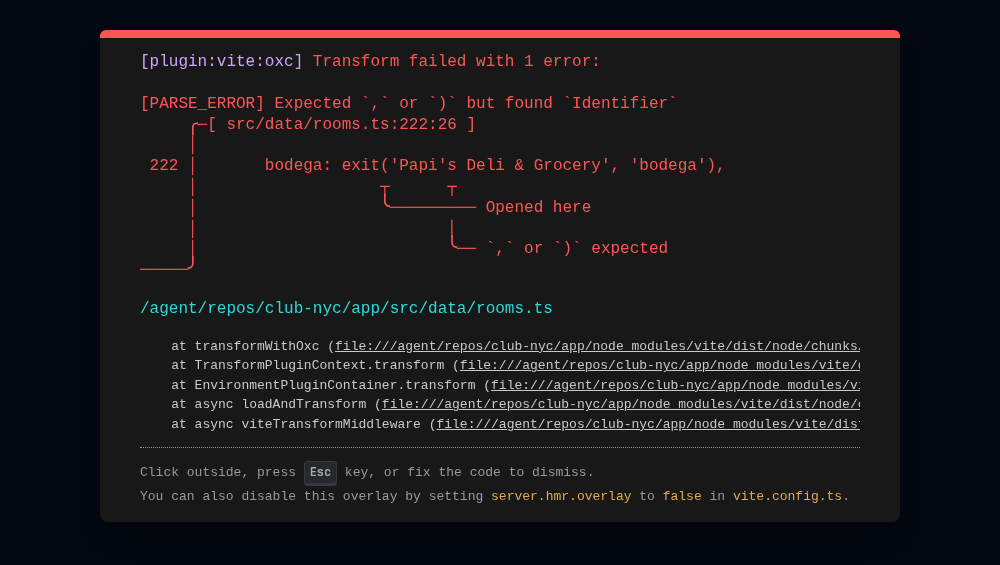
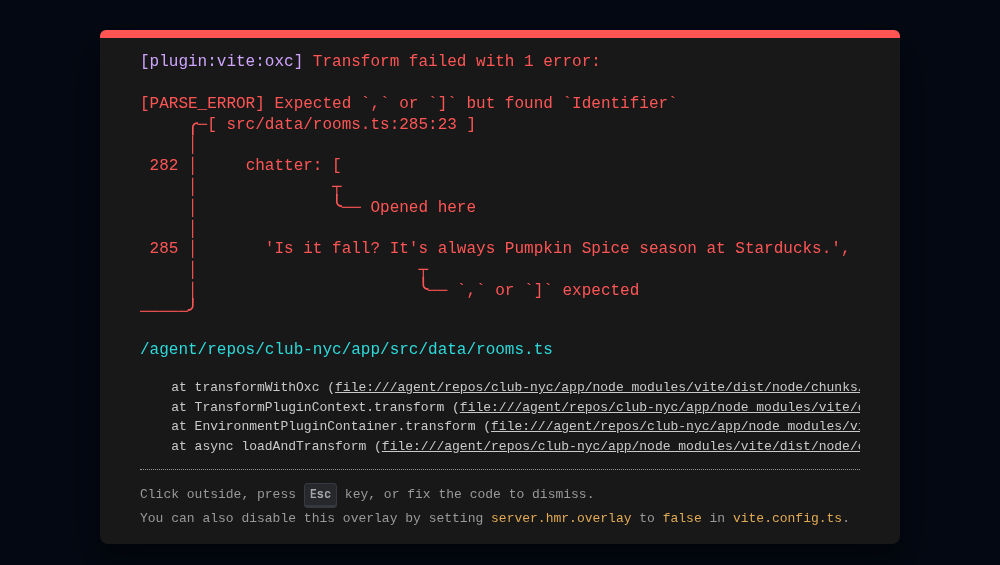
Fix more apostrophe syntax errors in Starducks chatter

diff --git a/app/src/data/rooms.ts b/app/src/data/rooms.ts
@@ -282,7 +282,7 @@ export const ROOMS: Record<string, RoomDef> = {
     chatter: [
       'They spelled my name "Jimothy". My name is James.',
       'Venti Pumpkin Spice Duckaccino, please!',
-      'Is it fall? It's always Pumpkin Spice season at Starducks.',
+      'Is it fall? It\'s always Pumpkin Spice season at Starducks.'
     ],
     objects: {
       counter: {

diff --git a/tools/playtest/out/PLAYTEST_REPORT.md b/tools/playtest/out/PLAYTEST_REPORT.md
@@ -1,5 +1,5 @@
 # Club NYC Playtest Report
-*Generated: 2026-11-11 20:19:55*
+*Generated: 2026-11-11 20:22:07*
 
 ## Executive Summary
 
@@ -10,9 +10,9 @@ This report captures autonomous playtest sessions simulating first-time and retu
 
 #### ⏱ Key Timings
 
-- **Total duration**: 20.0s
-- **Time to first interaction**: 2.0s
-- **Dead time** (gaps > 5s): 15.0s
+- **Total duration**: 20.2s
+- **Time to first interaction**: 2.1s
+- **Dead time** (gaps > 5s): 15.1s
 
 #### 🗺 Discovery
 
@@ -29,9 +29,9 @@ This report captures autonomous playtest sessions simulating first-time and retu
 
 - **Console errors**: 2
   - `Failed to load resource: the server responded with a status of 500 (Internal Server Error)`
-  - `Failed to fetch dynamically imported module: http://localhost:5173/src/game.ts?t=1794428346848`
+  - `Failed to fetch dynamically imported module: http://localhost:5173/src/game.ts`
 - **Stuck states**: 1
-  - At **initial_load** (20.0s): Game failed to load within timeout
+  - At **initial_load** (20.2s): Game failed to load within timeout
 - **Confusing moments**: 0
 
 #### 🔄 Retention Signals
@@ -61,7 +61,7 @@ This report captures autonomous playtest sessions simulating first-time and retu
 
 - **Console errors**: 4
   - `Failed to load resource: the server responded with a status of 500 (Internal Server Error)`
-  - `Failed to fetch dynamically imported module: http://localhost:5173/src/game.ts?t=1794428346848`
+  - `Failed to fetch dynamically imported module: http://localhost:5173/src/game.ts`
   - `Failed to load resource: the server responded with a status of 500 (Internal Server Error)`
   - ...and 1 more
 - **Stuck states**: 0
@@ -95,7 +95,7 @@ This report captures autonomous playtest sessions simulating first-time and retu
 
 - **Console errors**: 2
   - `Failed to load resource: the server responded with a status of 500 (Internal Server Error)`
-  - `Failed to fetch dynamically imported module: http://localhost:5173/src/game.ts?t=1794428346848`
+  - `Failed to fetch dynamically imported module: http://localhost:5173/src/game.ts`
 - **Stuck states**: 0
 - **Confusing moments**: 0
 
@@ -141,11 +141,11 @@ Screenshots are saved in `tools/playtest/out/screenshots/`
 
 | Time | Event | Details |
 |------|-------|----------|
-| 0.4s | console_error | Failed to load resource: the server responded with  |
-| 0.4s | page_error | Failed to fetch dynamically imported module: http:  |
-| 2.0s | screenshot | 01-loading  |
-| 5.0s | onboarding_started | False Skipped or already complete |
-| 20.0s | game_load_failed | True  |
+| 0.5s | console_error | Failed to load resource: the server responded with  |
+| 0.5s | page_error | Failed to fetch dynamically imported module: http:  |
+| 2.1s | screenshot | 01-loading  |
+| 5.1s | onboarding_started | False Skipped or already complete |
+| 20.2s | game_load_failed | True  |
 
 ### Session 2: returning
 
